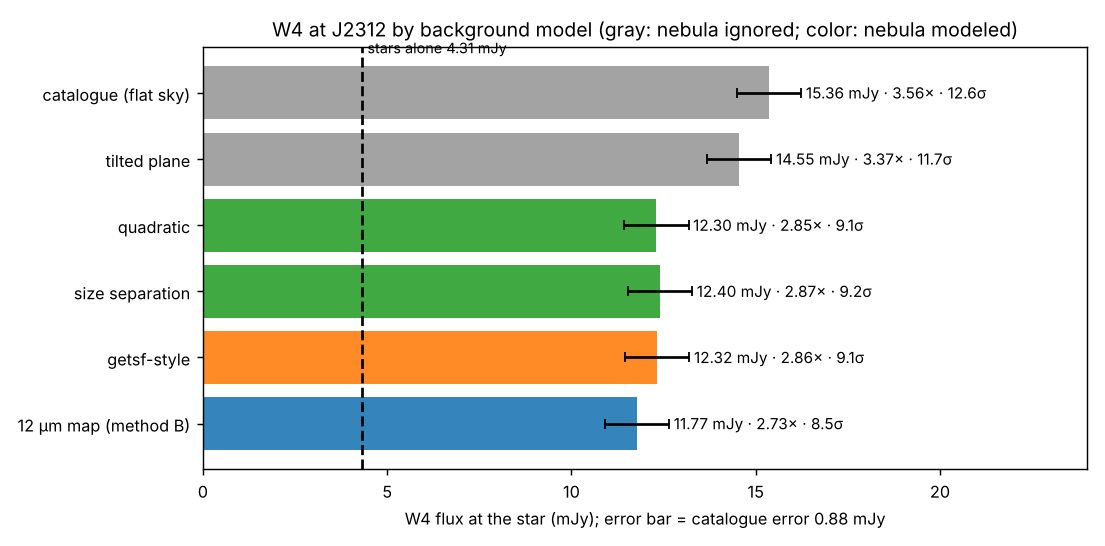
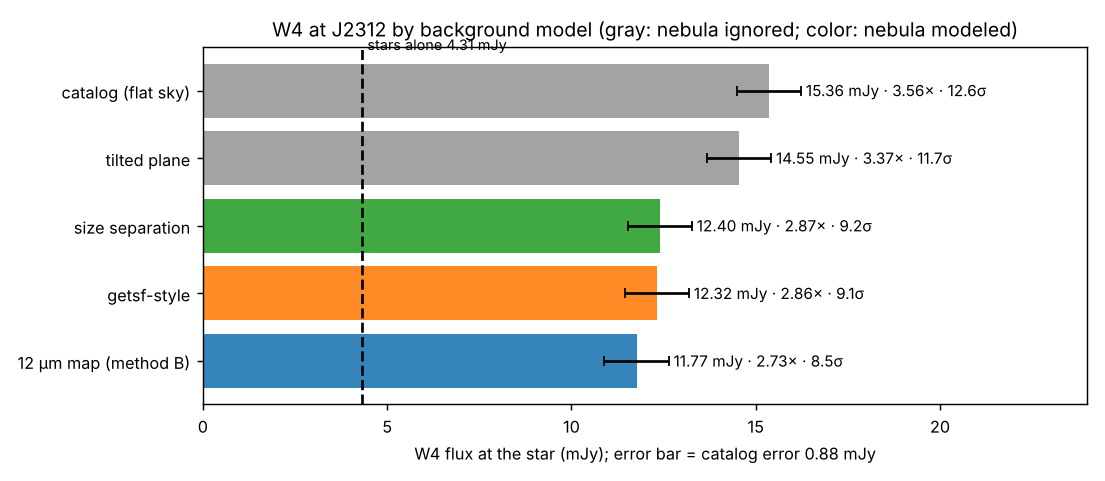
J2312 flux bar plot: drop quadratic model, American spelling
Claude-Session: https://claude.ai/code/session_01Cmkate8GQQC1zZ9rTMPdve

diff --git a/src/checks/j2312_model_comparison_report.py b/src/checks/j2312_model_comparison_report.py
@@ -97,7 +97,7 @@ ax.set_xlabel("distance from the star (arcsec)"); ax.set_ylabel("relative bright
 fig.tight_layout(); fig.savefig(OUT / "fig2_profiles.png", dpi=130); plt.close(fig)
 
 # ---------- fig 3: flux by model ----------
-models = [("catalogue (flat sky)", 15.36, "0.6"), ("tilted plane", 14.55, "0.6"), ("quadratic", 12.30, "C2"),
+models = [("catalog (flat sky)", 15.36, "0.6"), ("tilted plane", 14.55, "0.6"),
           ("size separation", 12.40, "C2"), ("getsf-style", F_G, "C1"), ("12 µm map (method B)", F_B, "C0")]
 fig, ax = plt.subplots(figsize=(8.5, 4.2))
 y = np.arange(len(models))
@@ -107,7 +107,7 @@ ax.text(F_PHOT + 0.15, -0.6, f"stars alone {F_PHOT:.2f} mJy", fontsize=8)
 for yi, (_, vv, _) in zip(y, models):
     ax.text(vv + 1.0, yi, f"{vv:.2f} mJy · {vv / F_PHOT:.2f}× · {(vv - F_PHOT) / E_CAT:.1f}σ", va="center", fontsize=8.5)
 ax.set_yticks(y); ax.set_yticklabels([n for n, *_ in models]); ax.invert_yaxis()
-ax.set_xlim(0, 24); ax.set_xlabel("W4 flux at the star (mJy); error bar = catalogue error 0.88 mJy")
+ax.set_xlim(0, 24); ax.set_xlabel("W4 flux at the star (mJy); error bar = catalog error 0.88 mJy")
 ax.set_title("W4 at J2312 by background model (gray: nebula ignored; color: nebula modeled)")
 fig.tight_layout(); fig.savefig(OUT / "fig3_flux.png", dpi=130); plt.close(fig)
 
